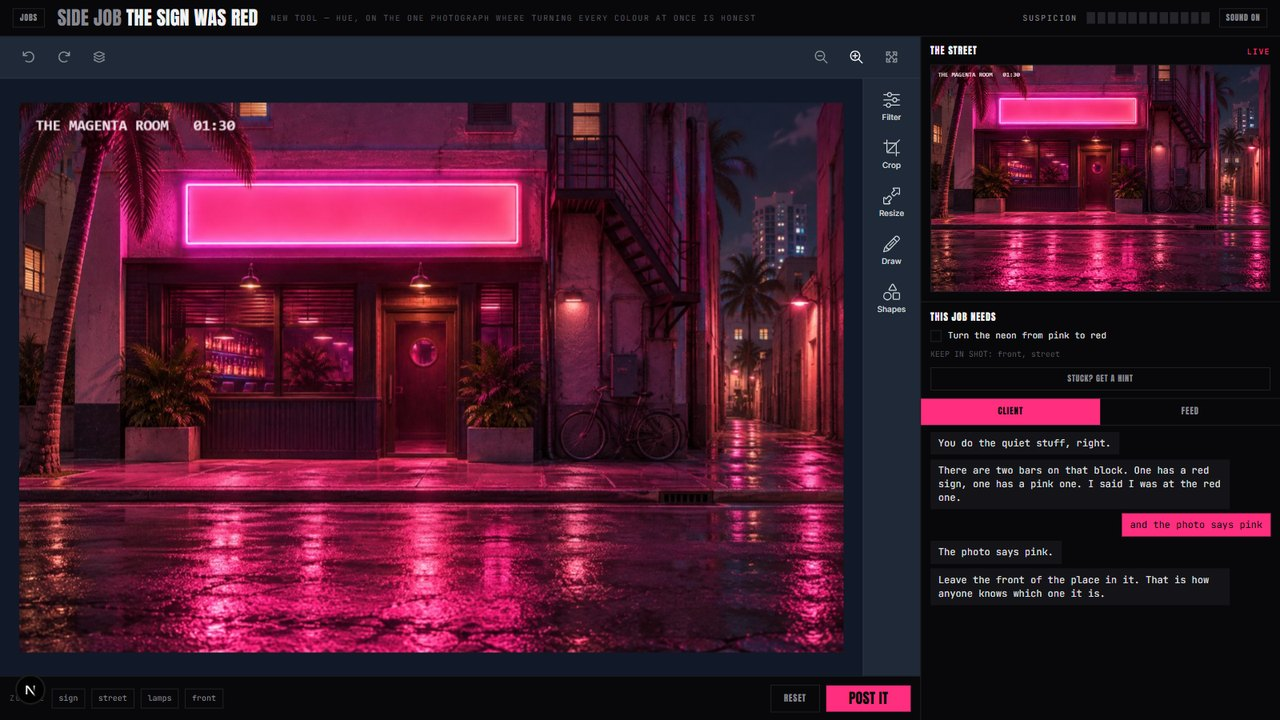
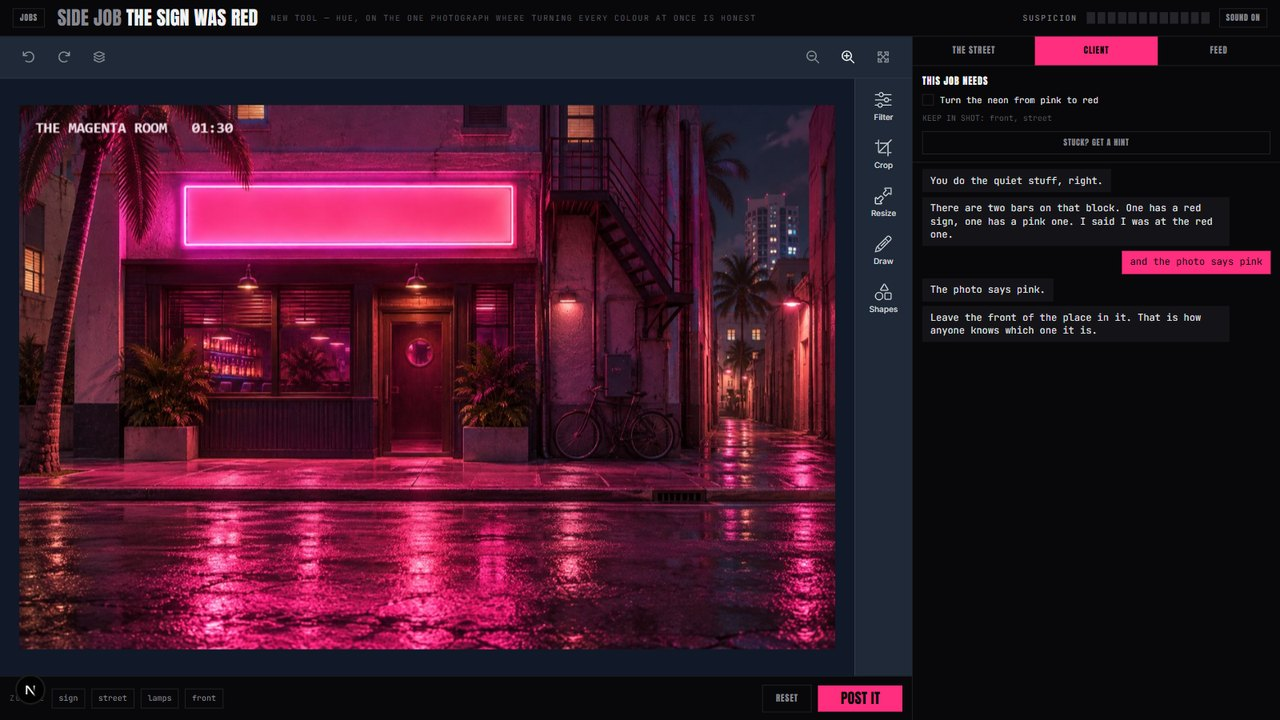
Give the rail three tabs, one panel at a time
The street was pinned above the client thread and the feed, so the busiest
panel in the game got a squeezed strip at the bottom of the rail and the posts
in it were too small to read. There are three tabs now — the street, the client,
the feed — and whichever one you pick gets the whole rail. The checklist stays
above them, because you need it whatever you are looking at.

The game moves you between them at the moments that matter: a post switches to
the street for the dissolve, then across to the feed once it has landed. A DM
arriving while the client tab is hidden now says so, the way the feed already
did, since that panel is out of sight more often than it used to be.

The job board was leaving half the screen empty on a wide display and clipping
both rows on a laptop. Cards are wider and taller, the block centres when it
fits, and the strips size to the viewport height rather than to a fixed number
of rem. Selecting a card also used to scroll every scrollable ancestor, which
pushed the board itself halfway down and cut the top row off; it moves the one
strip that should move.

README media re-recorded against the new layout, including the GIF — which now
carries a little further, to Cal noticing the photo is a different shape.

Changed region(s): [[0.0, 0.0306, 1.0, 1.0], [0.0, 0.3361, 0.0312, 0.3972], [0.9062, 0.55, 0.9375, 0.5806]]

diff --git a/src/components/Game.tsx b/src/components/Game.tsx
@@ -38,6 +38,16 @@ type Pending = { report: DiffReport; flags: string[]; image: string };
 let seq = 0;
 const nextId = () => `i${seq++}`;
 
+/**
+ * One panel at a time, full height.
+ *
+ * The street used to be pinned above the other two, which left the feed a
+ * squeezed strip at the bottom — the busiest panel in the game with the least
+ * room. Each of them now gets the whole rail when it is the one you want, and
+ * the game moves you between them at the moments that matter.
+ */
+type Rail = 'street' | 'client' | 'feed';
+
 export default function Game({
   level,
   chapter,
@@ -96,7 +106,9 @@ export default function Game({
    * squeezed strip at the bottom of the screen — which is where the game's whole
    * reaction happens, so it needs the height.
    */
-  const [rail, setRail] = useState<'client' | 'feed'>('client');
+  const [rail, setRail] = useState<Rail>('client');
+  /** DMs that arrived while the client tab was hidden */
+  const [unseen, setUnseen] = useState(0);
   const [unread, setUnread] = useState(0);
   /**
    * Shown over the workspace whenever the photograph under the editor is replaced.
@@ -199,7 +211,13 @@ export default function Game({
     setLastReport(report);
 
     play('post');
-    setRail('feed');
+    // the street first, because that is where the dissolve happens, then across
+    // to the replies once it has landed
+    setRail('street');
+    later(2600, () => {
+      setRail('feed');
+      setUnread(0);
+    });
 
     /**
      * What the street sees.
@@ -395,7 +413,10 @@ export default function Game({
       setBeat(true);
       later(400, () => play('landed'));
       chapter.payoff.forEach((m, i) =>
-        later(2400 + i * 1300, () => setThread((prev) => [...prev, m])),
+        later(2400 + i * 1300, () => {
+        setThread((prev) => [...prev, m]);
+        setUnseen((n) => n + 1);
+      }),
       );
       later(6400, () => {
         play('sting');
@@ -600,41 +621,33 @@ export default function Game({
         </section>
 
         {/* ----------------------------------------------------------- right rail */}
-        <aside className="flex w-[380px] shrink-0 flex-col border-l border-line xl:w-[450px]">
-          {/* the street stays pinned: it is the payoff, and watching it change is
-              the whole point of the game */}
-          <div className="shrink-0 border-b border-line">
-            <div className="flex items-baseline justify-between px-3 pt-2.5">
-              <h2 className="eyebrow text-xs text-text">The street</h2>
-              <span className="text-[10px] tracking-[0.14em] text-accent">LIVE</span>
-            </div>
-            <div className="p-3 pt-2">
-              <div className="relative">
-                {/* eslint-disable-next-line @next/next/no-img-element */}
-                <img
-                  data-testid="world"
-                  src={source}
-                  alt="the world as it is now"
-                  className="w-full border border-line"
-                />
-                {sentShot && (
-                  // eslint-disable-next-line @next/next/no-img-element
-                  <img
-                    data-testid="dissolve"
-                    src={sentShot}
-                    alt=""
-                    className={`absolute inset-0 h-full w-full border border-accent transition-opacity duration-[1400ms] ease-out ${
-                      fading ? 'opacity-0' : 'opacity-100'
-                    }`}
-                  />
-                )}
-              </div>
-              {sentShot && (
-                <p className="eyebrow mt-1.5 text-center text-[9px] text-accent">
-                  what you sent &rarr; what the street printed
-                </p>
-              )}
-            </div>
+        <aside className="flex w-[380px] shrink-0 flex-col border-l border-line xl:w-[460px]">
+          {/* one panel at a time, each of them the full height of the rail */}
+          <div className="flex shrink-0 border-b border-line">
+            {(['street', 'client', 'feed'] as const).map((tab) => {
+              const badge = tab === 'feed' ? unread : tab === 'client' ? unseen : 0;
+              return (
+                <button
+                  key={tab}
+                  data-testid={`tab-${tab}`}
+                  onClick={() => {
+                    setRail(tab);
+                    if (tab === 'feed') setUnread(0);
+                    if (tab === 'client') setUnseen(0);
+                  }}
+                  className={`eyebrow flex-1 px-2 py-2.5 text-[11px] ${
+                    rail === tab ? 'bg-accent text-accent-ink' : 'text-mute hover:text-text'
+                  }`}
+                >
+                  {tab === 'street' ? 'The street' : tab === 'client' ? 'Client' : 'Feed'}
+                  {badge > 0 && rail !== tab && (
+                    <span className="ml-1.5 bg-accent px-1 text-[10px] text-accent-ink">
+                      {badge}
+                    </span>
+                  )}
+                </button>
+              );
+            })}
           </div>
 
           {/* what this job still needs. Without it, a player who does half the job
@@ -715,34 +728,44 @@ export default function Game({
             )}
           </div>
 
-          {/* client and feed share the rest of the height, one at a time */}
-          <div className="flex shrink-0 border-b border-line">
-            {(['client', 'feed'] as const).map((tab) => (
-              <button
-                key={tab}
-                data-testid={`tab-${tab}`}
-                onClick={() => {
-                  setRail(tab);
-                  if (tab === 'feed') setUnread(0);
-                }}
-                className={`eyebrow flex-1 px-3 py-2 text-[11px] ${
-                  rail === tab
-                    ? 'bg-accent text-accent-ink'
-                    : 'text-mute hover:text-text'
-                }`}
-              >
-                {tab === 'client' ? 'Client' : 'Feed'}
-                {tab === 'feed' && unread > 0 && rail !== 'feed' && (
-                  <span className="ml-1.5 bg-accent px-1 text-[10px] text-accent-ink">
-                    {unread}
-                  </span>
-                )}
-              </button>
-            ))}
-          </div>
-
           <div className="scroll-thin min-h-0 flex-1 overflow-y-auto px-3 py-2">
-            {rail === 'client' ? (
+            {rail === 'street' ? (
+              <div>
+                <div className="flex items-baseline justify-between pb-2">
+                  <h2 className="eyebrow text-xs text-text">As it is now</h2>
+                  <span className="text-[10px] tracking-[0.14em] text-accent">LIVE</span>
+                </div>
+                <div className="relative">
+                  {/* eslint-disable-next-line @next/next/no-img-element */}
+                  <img
+                    data-testid="world"
+                    src={source}
+                    alt="the world as it is now"
+                    className="w-full border border-line"
+                  />
+                  {sentShot && (
+                    // eslint-disable-next-line @next/next/no-img-element
+                    <img
+                      data-testid="dissolve"
+                      src={sentShot}
+                      alt=""
+                      className={`absolute inset-0 h-full w-full border border-accent transition-opacity duration-[1400ms] ease-out ${
+                        fading ? 'opacity-0' : 'opacity-100'
+                      }`}
+                    />
+                  )}
+                </div>
+                {sentShot && (
+                  <p className="eyebrow mt-1.5 text-center text-[9px] text-accent">
+                    what you sent &rarr; what the street printed
+                  </p>
+                )}
+                <p className="mt-3 text-[11px] leading-snug text-mute">
+                  This is the photograph Leonida has. Every post you land rewrites it, and the
+                  next job starts from whatever it says.
+                </p>
+              </div>
+            ) : rail === 'client' ? (
               <div className="flex flex-col gap-1.5">
                 {thread.map((m, i) => (
                   <p

diff --git a/src/components/screens/Jobs.tsx b/src/components/screens/Jobs.tsx
@@ -61,7 +61,7 @@ function Card({
       disabled={locked}
       onMouseEnter={() => !locked && onHover()}
       onClick={() => !locked && onOpen()}
-      className={`group relative flex h-full w-[clamp(9rem,14vw,13rem)] shrink-0 flex-col overflow-hidden border text-left transition-all ${
+      className={`group relative flex h-full w-[clamp(11rem,18vw,22rem)] shrink-0 flex-col overflow-hidden border text-left transition-all ${
         selected && !locked ? 'border-accent' : 'border-line hover:border-mute'
       } ${locked ? 'cursor-not-allowed opacity-40' : ''}`}
       style={{ transform: selected && !locked ? 'scale(1.03)' : undefined }}
@@ -86,7 +86,9 @@ function Card({
       </div>
       <div className="flex shrink-0 flex-col gap-1 bg-panel p-3">
         <span className="text-[10px] tracking-[0.16em] text-mute">{caption}</span>
-        <span className="display text-[clamp(0.8rem,1.2vw,1.05rem)] text-text">{title}</span>
+        <span className="display text-[clamp(0.9rem,1.4vw,1.3rem)] text-text">
+          {title}
+        </span>
       </div>
     </button>
   );
@@ -107,9 +109,19 @@ export default function Jobs({
   });
   const current = useRef<HTMLButtonElement>(null);
 
-  // the job you are up to can be off the right-hand end of the strip on arrival
+  /**
+   * Bring the selected card into its own strip, sideways only.
+   *
+   * `scrollIntoView` walks every scrollable ancestor, so on a short screen it
+   * scrolled the board itself as well and opened the page halfway down, with the
+   * first row's tops cut off. This moves the one container that should move.
+   */
   useEffect(() => {
-    current.current?.scrollIntoView({ block: 'nearest', inline: 'nearest' });
+    const card = current.current;
+    const strip = card?.parentElement?.parentElement;
+    if (!card || !strip) return;
+    const left = card.offsetLeft - (strip.clientWidth - card.clientWidth) / 2;
+    strip.scrollTo({ left: Math.max(0, left) });
   }, [at]);
 
   const selected =
@@ -149,56 +161,62 @@ export default function Jobs({
       {/* the board scrolls down as well as sideways. Squeezing both sections into
           whatever height was left meant the second one was cut in half on a
           laptop, and it would only get worse with a third */}
-      <div className="scroll-thin flex min-h-0 flex-1 flex-col gap-5 overflow-y-auto pb-3">
-        <section className="flex shrink-0 flex-col">
-          <p className="eyebrow shrink-0 px-6 pb-2 text-[10px] text-accent sm:px-10">
-            The run
-          </p>
-          <div className="scroll-thin flex overflow-x-auto overflow-y-hidden px-6 sm:px-10">
-            <div className="flex h-[17rem] gap-3 sm:gap-4">
-              {MAIN.map((level, i) => (
-                <Card
-                  key={level.id}
-                  level={level}
-                  caption={`JOB ${String(i + 1).padStart(2, '0')}`}
-                  title={level.title}
-                  done={i < progress.main}
-                  locked={i > progress.main}
-                  selected={at.kind === 'main' && at.at === i}
-                  innerRef={at.kind === 'main' && at.at === i ? current : undefined}
-                  onHover={() => setAt({ kind: 'main', at: i })}
-                  onOpen={() => onPick({ kind: 'main', at: i })}
-                />
-              ))}
-            </div>
-          </div>
-        </section>
-
-        {SIDE.length > 0 && (
+      {/* `my-auto` rather than `justify-center`: centring a scrolling column clips
+          whatever overflows the top, and this one does overflow on a laptop */}
+      <div className="scroll-thin min-h-0 flex-1 overflow-y-auto pb-3">
+        <div className="flex min-h-full flex-col justify-center gap-5">
           <section className="flex shrink-0 flex-col">
-            <p className="eyebrow shrink-0 px-6 pb-2 text-[10px] text-mute sm:px-10">
-              Side work — optional, and it does not touch the ending
+            <p className="eyebrow shrink-0 px-6 pb-2 text-[10px] text-accent sm:px-10">
+              The run
             </p>
             <div className="scroll-thin flex overflow-x-auto overflow-y-hidden px-6 sm:px-10">
-              <div className="flex h-[15rem] gap-3 sm:gap-4">
-                {SIDE.map((level) => (
+              <div className="flex h-[min(19rem,34vh)] gap-3 sm:gap-4">
+                {MAIN.map((level, i) => (
                   <Card
                     key={level.id}
                     level={level}
-                    caption="SIDE JOB"
+                    caption={`JOB ${String(i + 1).padStart(2, '0')}`}
                     title={level.title}
-                    done={progress.side.includes(level.id)}
-                    locked={sideLocked}
-                    selected={at.kind === 'side' && at.id === level.id}
-                    innerRef={at.kind === 'side' && at.id === level.id ? current : undefined}
-                    onHover={() => setAt({ kind: 'side', id: level.id })}
-                    onOpen={() => onPick({ kind: 'side', id: level.id })}
+                    done={i < progress.main}
+                    locked={i > progress.main}
+                    selected={at.kind === 'main' && at.at === i}
+                    innerRef={at.kind === 'main' && at.at === i ? current : undefined}
+                    onHover={() => setAt({ kind: 'main', at: i })}
+                    onOpen={() => onPick({ kind: 'main', at: i })}
                   />
                 ))}
               </div>
             </div>
           </section>
-        )}
+
+          {SIDE.length > 0 && (
+            <section className="flex shrink-0 flex-col">
+              <p className="eyebrow shrink-0 px-6 pb-2 text-[10px] text-mute sm:px-10">
+                Side work — optional, and it does not touch the ending
+              </p>
+              <div className="scroll-thin flex overflow-x-auto overflow-y-hidden px-6 sm:px-10">
+                <div className="flex h-[min(17rem,30vh)] gap-3 sm:gap-4">
+                  {SIDE.map((level) => (
+                    <Card
+                      key={level.id}
+                      level={level}
+                      caption="SIDE JOB"
+                      title={level.title}
+                      done={progress.side.includes(level.id)}
+                      locked={sideLocked}
+                      selected={at.kind === 'side' && at.id === level.id}
+                      innerRef={
+                        at.kind === 'side' && at.id === level.id ? current : undefined
+                      }
+                      onHover={() => setAt({ kind: 'side', id: level.id })}
+                      onOpen={() => onPick({ kind: 'side', id: level.id })}
+                    />
+                  ))}
+                </div>
+              </div>
+            </section>
+          )}
+        </div>
       </div>
 
       <footer className="flex items-center gap-6 border-t border-line px-6 py-3 sm:px-10">
